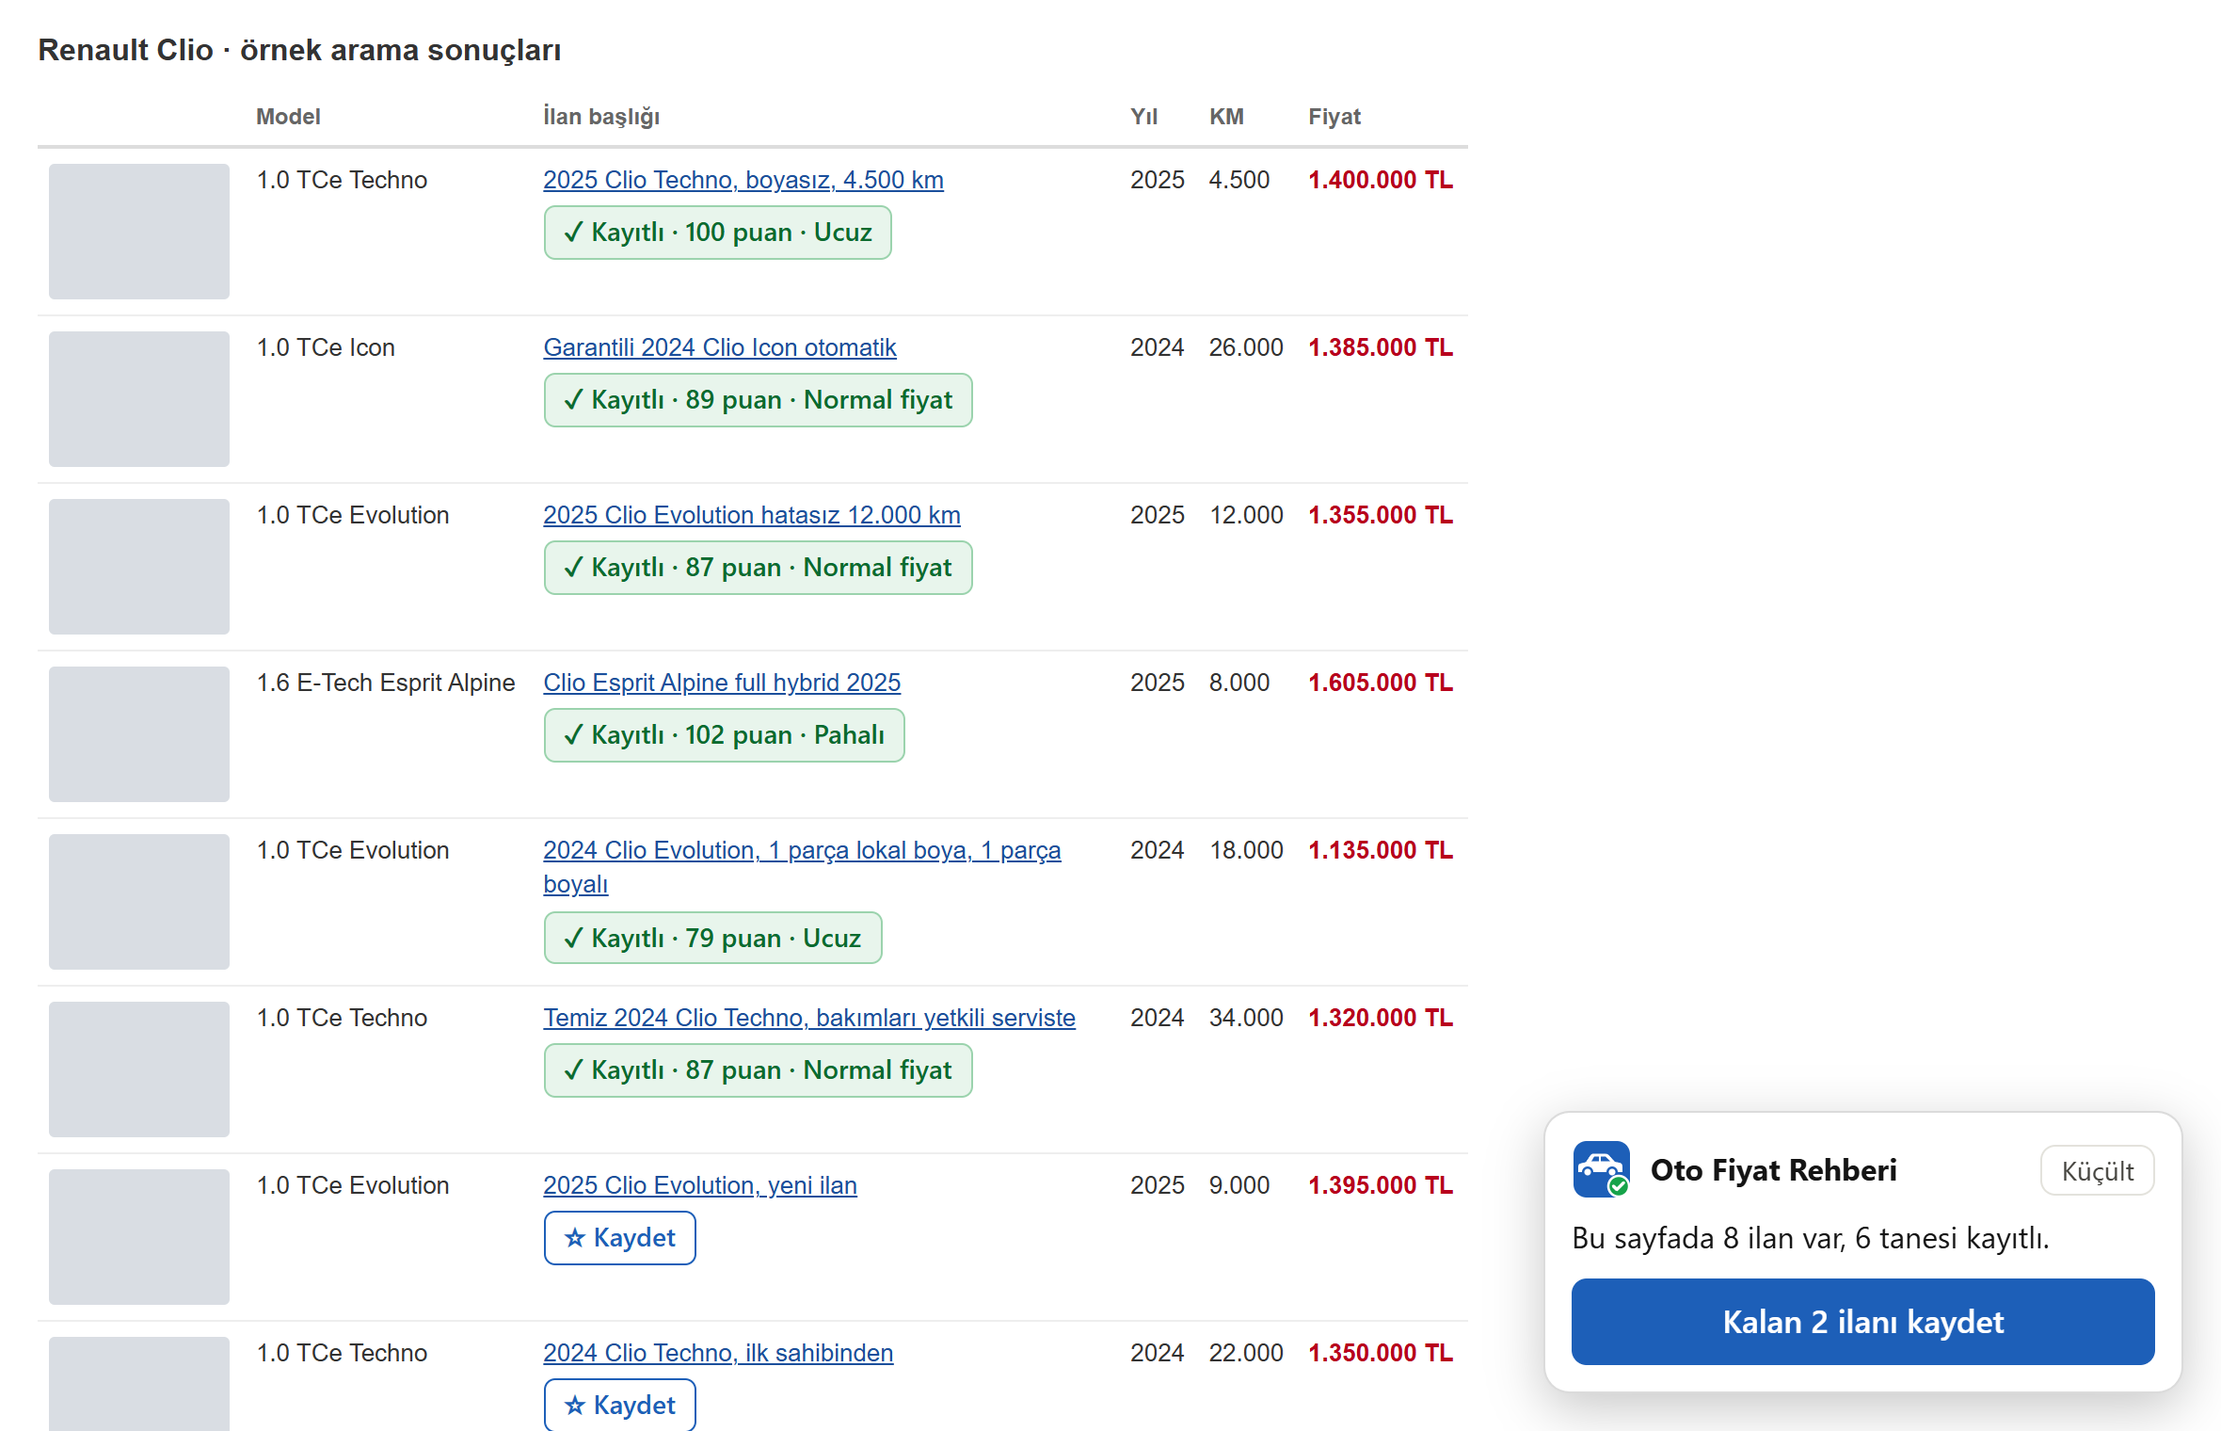
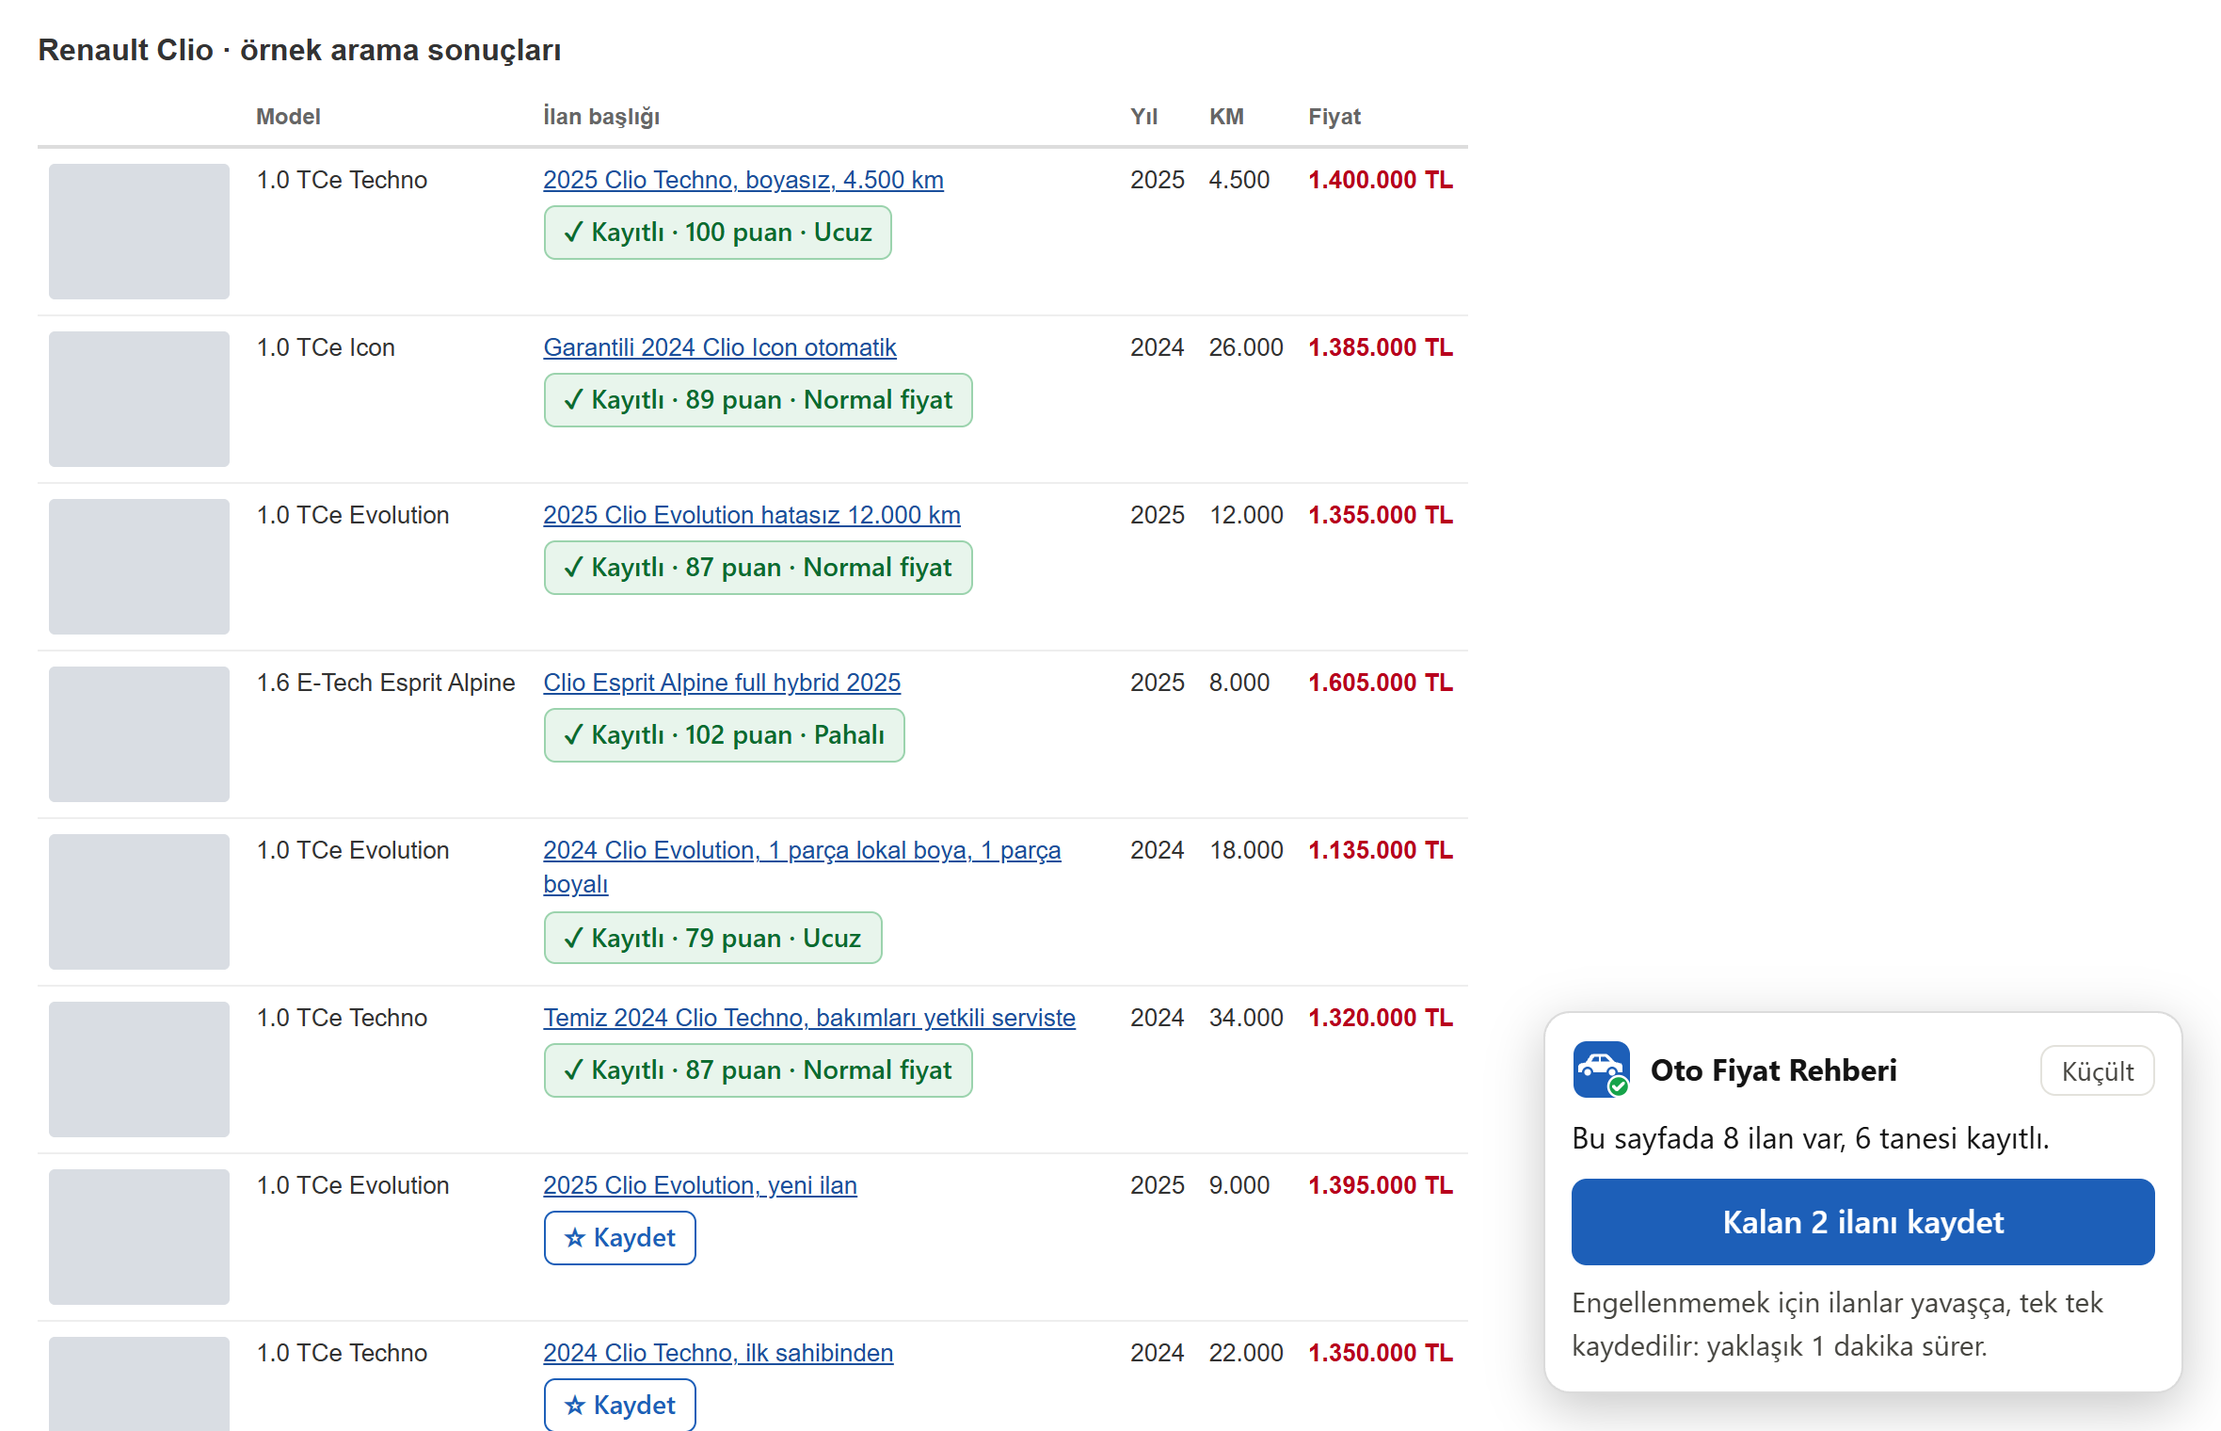
Throttle listing fetches from search results
Fetching a whole results page 1-2 s apart got the account banned. Listing
fetches now:

- wait a random 10-20 s between requests and at least the minimum delay after
  the page loads (config.fetching)
- go through one queue shared by all sahibinden tabs (Web Locks + a shared
  nextFetchAt), so two "Hepsini kaydet" runs can't add up to a burst
- stop on the first sign of a block (403/429, a captcha page, or a redirect
  away from the listing) and stay off for 60 minutes in every tab; an
  unreadable page stops the run without the cooldown

The save-all box shows how long a run takes and when saving opens again.
Bumps the version to 0.3.3.

Changed region(s): [[0.6805, 0.7112, 0.9898, 0.9586], [0.928, 0.7421, 0.9589, 0.773]]

diff --git a/src/content/results.js b/src/content/results.js
@@ -37,6 +37,8 @@ var SCC = globalThis.SCC || (globalThis.SCC = {});
     header svg { width: 32px; height: 32px; display: block; }
     header b { flex: 1; }
     p { margin: 0 0 10px; }
+    .hint { margin: 8px 0 0; color: #45443f; font-size: 15px; }
+    .bar + .hint { margin: 0 0 10px; }
     .ok { color: #0b6b2e; font-weight: 600; }
     .bad { color: #b42318; font-weight: 600; }
     .bar { height: 12px; margin: 0 0 12px; overflow: hidden; background: #f4f4f1; border: 1px solid #e3e2dc; border-radius: 999px; }
@@ -53,18 +55,34 @@ var SCC = globalThis.SCC || (globalThis.SCC = {});
   `;
   const VERDICT = { cheap: 'Ucuz', fair: 'Normal fiyat', dear: 'Pahalı' };
 
-  // ---- Saving: one listing page at a time, with a pause, so it doesn't look like a bot.
+  // ---- Saving. sahibinden bans clients that fetch quickly, so every listing fetch,
+  // from any sahibinden tab, takes one shared lock and waits until the shared
+  // nextFetchAt (a random 10-20 s after the previous fetch, see config.fetching).
+  // The first sign of a block stops all fetching for cooldownMinutes.
+
+  const LOCK = 'oto-fiyat-rehberi-fetch';
+  const pageLoadedAt = Date.now();
+  const fetching = () => SCC.config.fetching;
+  const randomDelay = () => {
+    const { minDelaySeconds: min, maxDelaySeconds: max } = fetching();
+    return (min + Math.random() * (max - min)) * 1000;
+  };
+  const clock = (t) => new Date(t).toLocaleTimeString('tr-TR', { hour: '2-digit', minute: '2-digit' });
+  // A captcha or "unusual traffic" page instead of a listing.
+  const BOT_CHECK = /captcha|turnstile|olağan ?dışı|robot olmadığ|güvenlik doğrulama/i;
 
   const state = new Map(); // id -> 'queued' | 'saving' | { error }; saved ones are read from storage
-  const jobs = []; // [{ id, url }] waiting their turn
+  const jobs = []; // [{ id, url, cancelled }] waiting their turn
+  let current = null;
   let working = false;
-  let failStreak = 0;
+  let errorStreak = 0;
   let batch = null; // the "Hepsini kaydet" run: { ids, done, failed, finished, stopped }
+  let blockedUntil = 0; // mirrors storage fetchBlockedUntil, for painting
 
   function enqueue(id, url) {
     if (state.get(id) === 'queued' || state.get(id) === 'saving') return;
     state.set(id, 'queued');
-    jobs.push({ id, url });
+    jobs.push({ id, url, cancelled: false });
     work();
   }
 
@@ -72,20 +90,20 @@ var SCC = globalThis.SCC || (globalThis.SCC = {});
     if (working) return;
     working = true;
     while (jobs.length) {
-      const { id, url } = jobs.shift();
-      state.set(id, 'saving');
+      current = jobs.shift();
       paint();
-      const result = await fetchAndSave(id, url);
-      if (batch?.ids.has(id)) {
+      const result = await fetchAndSave(current);
+      if (result === 'cancelled') state.delete(current.id);
+      if (batch?.ids.has(current.id) && result !== 'cancelled') {
         batch.done++;
         if (result !== 'ok') batch.failed++;
       }
-      failStreak = result === 'ok' ? 0 : failStreak + 1;
-      // A refusal, or several pages in a row that aren't listings (a bot check page),
-      // means sahibinden wants us to slow down: stop instead of pushing on.
-      if (result === 'blocked' || failStreak >= 3) stop('blocked');
+      errorStreak = result === 'error' ? errorStreak + 1 : 0;
+      if (result === 'blocked') stop('blocked');
+      // Not a listing, or several failures in a row: something is off, stop rather than push on.
+      else if (result === 'unreadable' || errorStreak >= 3) stop('unreadable');
+      current = null;
       paint();
-      if (jobs.length) await sleep(1000 + Math.random() * 1000);
     }
     working = false;
     if (batch) batch.finished = true;
@@ -93,20 +111,61 @@ var SCC = globalThis.SCC || (globalThis.SCC = {});
   }
 
   function stop(reason) {
-    for (const { id } of jobs.splice(0)) state.delete(id);
-    if (batch && !batch.finished) batch.stopped = reason;
+    for (const job of jobs.splice(0)) {
+      job.cancelled = true;
+      state.delete(job.id);
+    }
+    // A job still waiting for its turn is called off too; one already downloading finishes.
+    if (current) current.cancelled = true;
+    if (batch && !batch.finished && !batch.stopped) batch.stopped = reason;
   }
 
-  async function fetchAndSave(id, url) {
+  // Resolves to { res } or { cancelled } or { blockedUntil }.
+  function throttledFetch(job) {
+    return navigator.locks.request(LOCK, async () => {
+      const shared = await chrome.storage.local.get(['nextFetchAt', 'fetchBlockedUntil']);
+      if (Date.now() < (shared.fetchBlockedUntil || 0)) return { blockedUntil: shared.fetchBlockedUntil };
+      // Never right after this page's own load either.
+      const earliest = Math.max(shared.nextFetchAt || 0, pageLoadedAt + fetching().minDelaySeconds * 1000);
+      if (earliest > Date.now()) await sleep(earliest - Date.now());
+      if (job.cancelled) return { cancelled: true };
+      state.set(job.id, 'saving');
+      paint();
+      try {
+        return { res: await fetch(job.url, { credentials: 'include' }) };
+      } finally {
+        await chrome.storage.local.set({ nextFetchAt: Date.now() + randomDelay() });
+      }
+    });
+  }
+
+  async function block(id) {
+    const until = Date.now() + fetching().cooldownMinutes * 60 * 1000;
+    await chrome.storage.local.set({ fetchBlockedUntil: until });
+    state.set(id, { error: `sahibinden erişimi kısıtladı. Saat ${clock(until)} olunca tekrar deneyin.` });
+    return 'blocked';
+  }
+
+  async function fetchAndSave(job) {
+    const { id, url } = job;
     try {
-      const res = await fetch(url, { credentials: 'include' });
-      if (res.status === 403 || res.status === 429) {
-        state.set(id, { error: 'sahibinden şu an izin vermiyor. Birkaç dakika sonra tekrar deneyin.' });
+      const got = await throttledFetch(job);
+      if (got.cancelled) return 'cancelled';
+      if (got.blockedUntil) {
+        state.set(id, { error: `Güvenlik için kayıt şimdilik kapalı. Saat ${clock(got.blockedUntil)} olunca tekrar deneyin.` });
         return 'blocked';
       }
+      const res = got.res;
+      const leftListing = res.redirected && !new URL(res.url).pathname.startsWith('/ilan/');
+      if (res.status === 403 || res.status === 429 || leftListing) return block(id);
       if (!res.ok) throw new Error(`sahibinden sayfayı vermedi (${res.status})`);
-      const listing = SCC.parseListing(new DOMParser().parseFromString(await res.text(), 'text/html'), url);
-      if (!listing) throw new Error('İlan sayfası okunamadı');
+      const html = await res.text();
+      const listing = SCC.parseListing(new DOMParser().parseFromString(html, 'text/html'), url);
+      if (!listing && BOT_CHECK.test(html)) return block(id);
+      if (!listing) {
+        state.set(id, { error: 'İlan sayfası okunamadı. İlanı açarak kaydedebilirsiniz.' });
+        return 'unreadable';
+      }
       state.delete(id);
       await SCC.storage.upsert(listing);
       return 'ok';
@@ -115,6 +174,13 @@ var SCC = globalThis.SCC || (globalThis.SCC = {});
       state.set(id, { error: `${err.message}. İlanı açarak da kaydedebilirsiniz.` });
       return 'error';
     }
+  }
+
+  // "yaklaşık 4 dakika" for n more listings at the average delay.
+  function duration(n) {
+    const { minDelaySeconds: min, maxDelaySeconds: max } = fetching();
+    const minutes = Math.ceil((n * (min + max)) / 2 / 60);
+    return minutes <= 1 ? 'yaklaşık 1 dakika' : `yaklaşık ${minutes} dakika`;
   }
 
   // ---- Buttons under each listing.
@@ -194,23 +260,34 @@ var SCC = globalThis.SCC || (globalThis.SCC = {});
     const total = links.size;
     const saved = [...links.keys()].filter((id) => rows.has(id)).length;
     const unsaved = total - saved;
+    const blocked = Date.now() < blockedUntil;
     let body;
     if (batch && !batch.finished) {
       const n = batch.ids.size;
       body = `<p>Kaydediliyor: <b>${batch.done} / ${n}</b></p>
         <div class="bar" role="progressbar" aria-valuenow="${batch.done}" aria-valuemax="${n}"><i style="width: ${(batch.done / n) * 100}%"></i></div>
+        <p class="hint">Engellenmemek için ilanlar yavaşça, tek tek kaydediliyor: ${duration(n - batch.done)} kaldı. Bu sayfayı kapatmayın.</p>
         <div class="acts"><button class="secondary" data-act="stop">Durdur</button></div>`;
     } else {
+      const kept = batch ? batch.done - batch.failed : 0;
       const report = !batch
         ? ''
         : batch.stopped === 'blocked'
-          ? `<p class="bad">sahibinden şu an daha fazla ilana izin vermiyor, kayıt durduruldu. Birkaç dakika bekleyip tekrar deneyin.</p>`
-          : batch.stopped
-            ? `<p>Durduruldu. ${batch.done - batch.failed} ilan kaydedildi.</p>`
-            : `<p class="ok">✓ ${batch.done - batch.failed} ilan kaydedildi.${batch.failed ? ` <span class="bad">${batch.failed} ilan kaydedilemedi.</span>` : ''}</p>`;
-      const action = unsaved
-        ? `<button class="primary" data-act="all">${saved ? `Kalan ${unsaved} ilanı kaydet` : `Sayfadaki ${unsaved} ilanın hepsini kaydet`}</button>`
-        : `<button class="primary" data-act="dash">Kaydedilen ilanları karşılaştır</button>`;
+          ? `<p class="bad">sahibinden erişimi kısıtladı, kayıt durduruldu.</p>`
+          : batch.stopped === 'unreadable'
+            ? `<p class="bad">sahibinden beklenmedik bir sayfa gösterdi, güvenlik için kayıt durduruldu. ${kept} ilan kaydedildi.</p>`
+            : batch.stopped
+              ? `<p>Durduruldu. ${kept} ilan kaydedildi.</p>`
+              : `<p class="ok">✓ ${kept} ilan kaydedildi.${batch.failed ? ` <span class="bad">${batch.failed} ilan kaydedilemedi.</span>` : ''}</p>`;
+      let action;
+      if (blocked) {
+        action = `<p class="hint">Engellenmemek için toplu kayıt şimdilik kapalı. Saat <b>${clock(blockedUntil)}</b> olunca kendiliğinden açılır.</p>`;
+      } else if (unsaved) {
+        action = `<button class="primary" data-act="all">${saved ? `Kalan ${unsaved} ilanı kaydet` : `Sayfadaki ${unsaved} ilanın hepsini kaydet`}</button>
+          <p class="hint">Engellenmemek için ilanlar yavaşça, tek tek kaydedilir: ${duration(unsaved)} sürer.</p>`;
+      } else {
+        action = `<button class="primary" data-act="dash">Kaydedilen ilanları karşılaştır</button>`;
+      }
       body = `${report}
         <p>Bu sayfada ${total} ilan var${saved ? `, ${saved} tanesi kayıtlı` : ''}.</p>
         <div class="acts">${action}</div>`;
@@ -229,7 +306,7 @@ var SCC = globalThis.SCC || (globalThis.SCC = {});
     root.querySelector('[data-act="all"]')?.addEventListener('click', () => {
       const ids = [...links.keys()].filter((id) => !rows.has(id) && state.get(id) !== 'queued' && state.get(id) !== 'saving');
       batch = { ids: new Set(ids), done: 0, failed: 0, finished: false, stopped: null };
-      failStreak = 0;
+      errorStreak = 0;
       for (const id of ids) enqueue(id, links.get(id));
     });
     root.querySelector('[data-act="stop"]')?.addEventListener('click', () => {
@@ -241,8 +318,13 @@ var SCC = globalThis.SCC || (globalThis.SCC = {});
     );
   }
 
+  let unblockTimer;
   async function paint() {
     await SCC.storage.loadSettings();
+    blockedUntil = (await chrome.storage.local.get('fetchBlockedUntil')).fetchBlockedUntil || 0;
+    // Bring the save-all button back by itself once the cooldown is over.
+    clearTimeout(unblockTimer);
+    if (blockedUntil > Date.now()) unblockTimer = setTimeout(paint, blockedUntil - Date.now() + 1000);
     const rows = new Map(SCC.analyze(await SCC.storage.list()).flatMap((g) => g.rows.map((r) => [r.listing.id, r])));
     paintButtons(rows);
     // Not on the home page, whose showcase also links to cars.
@@ -257,6 +339,6 @@ var SCC = globalThis.SCC || (globalThis.SCC = {});
     timer = setTimeout(() => addButtons() && paint(), 300);
   }).observe(document.body, { childList: true, subtree: true });
   chrome.storage.onChanged.addListener((changes, area) => {
-    if (area === 'local' && (changes.listings || changes.settings)) paint();
+    if (area === 'local' && (changes.listings || changes.settings || changes.fetchBlockedUntil)) paint();
   });
 })();

diff --git a/src/lib/config.js b/src/lib/config.js
@@ -72,4 +72,14 @@ SCC.config = {
   // A price within this share of the expected price is shown as "Normal fiyat"
   // rather than cheap or expensive.
   fairPriceBand: 0.03,
+
+  // Saving from search results downloads each listing page. sahibinden bans clients
+  // that fetch fast (1-2 s apart was enough to get banned), so requests from all tabs
+  // share one queue, wait a random delay in between, and stop for a while on the
+  // first sign of a block.
+  fetching: {
+    minDelaySeconds: 10,
+    maxDelaySeconds: 20,
+    cooldownMinutes: 60,
+  },
 };

diff --git a/README.md b/README.md
@@ -92,9 +92,13 @@ Dikkat edilecekler:
 ## Kullanım
 
 - **İlan sayfası:** Bir araba ilanı açtığınızda panel kendiliğinden çıkar ve ilan kaydedilir.
-- **Arama sonuçları:** Sağ alttaki kutudan **Hepsini kaydet**'e basın. İlanlar arka planda tek tek,
-  1–2 saniye arayla indirilir. sahibinden izin vermezse (403/429) ya da üst üste 3 sayfa okunamazsa
-  kayıt kendiliğinden durur; birkaç dakika sonra tekrar deneyebilirsiniz.
+- **Arama sonuçları:** Sağ alttaki kutudan **Hepsini kaydet**'e basın. sahibinden hızlı istek
+  yapanları engellediği için ilanlar arka planda tek tek, aralarında rastgele 10–20 saniye beklenerek
+  indirilir; 20 ilanlık bir sayfa yaklaşık 5 dakika sürer ve bu sırada sayfa açık kalmalıdır. Birden
+  fazla sekmede basılsa da istekler tek sıradan geçer. sahibinden engellemeye başlarsa (403/429,
+  doğrulama sayfası ya da ilan dışı bir sayfaya yönlendirme) kayıt durur ve 60 dakika boyunca kapalı
+  kalır; ilan olmayan bir sayfa gelirse de güvenlik için durur. Bu süreler `config.js` içindeki
+  `fetching` bölümünden değiştirilebilir.
 - **Karşılaştırma sayfası:** Araç çubuğundaki simgeye tıklayıp **Kaydedilen ilanları karşılaştır**'a
   ya da paneldeki mavi düğmeye basın.
 - **Puan ayarları:** Karşılaştırma sayfasında **⚙ Puan ayarları**. Değişiklikler kendiliğinden kaydedilir.
